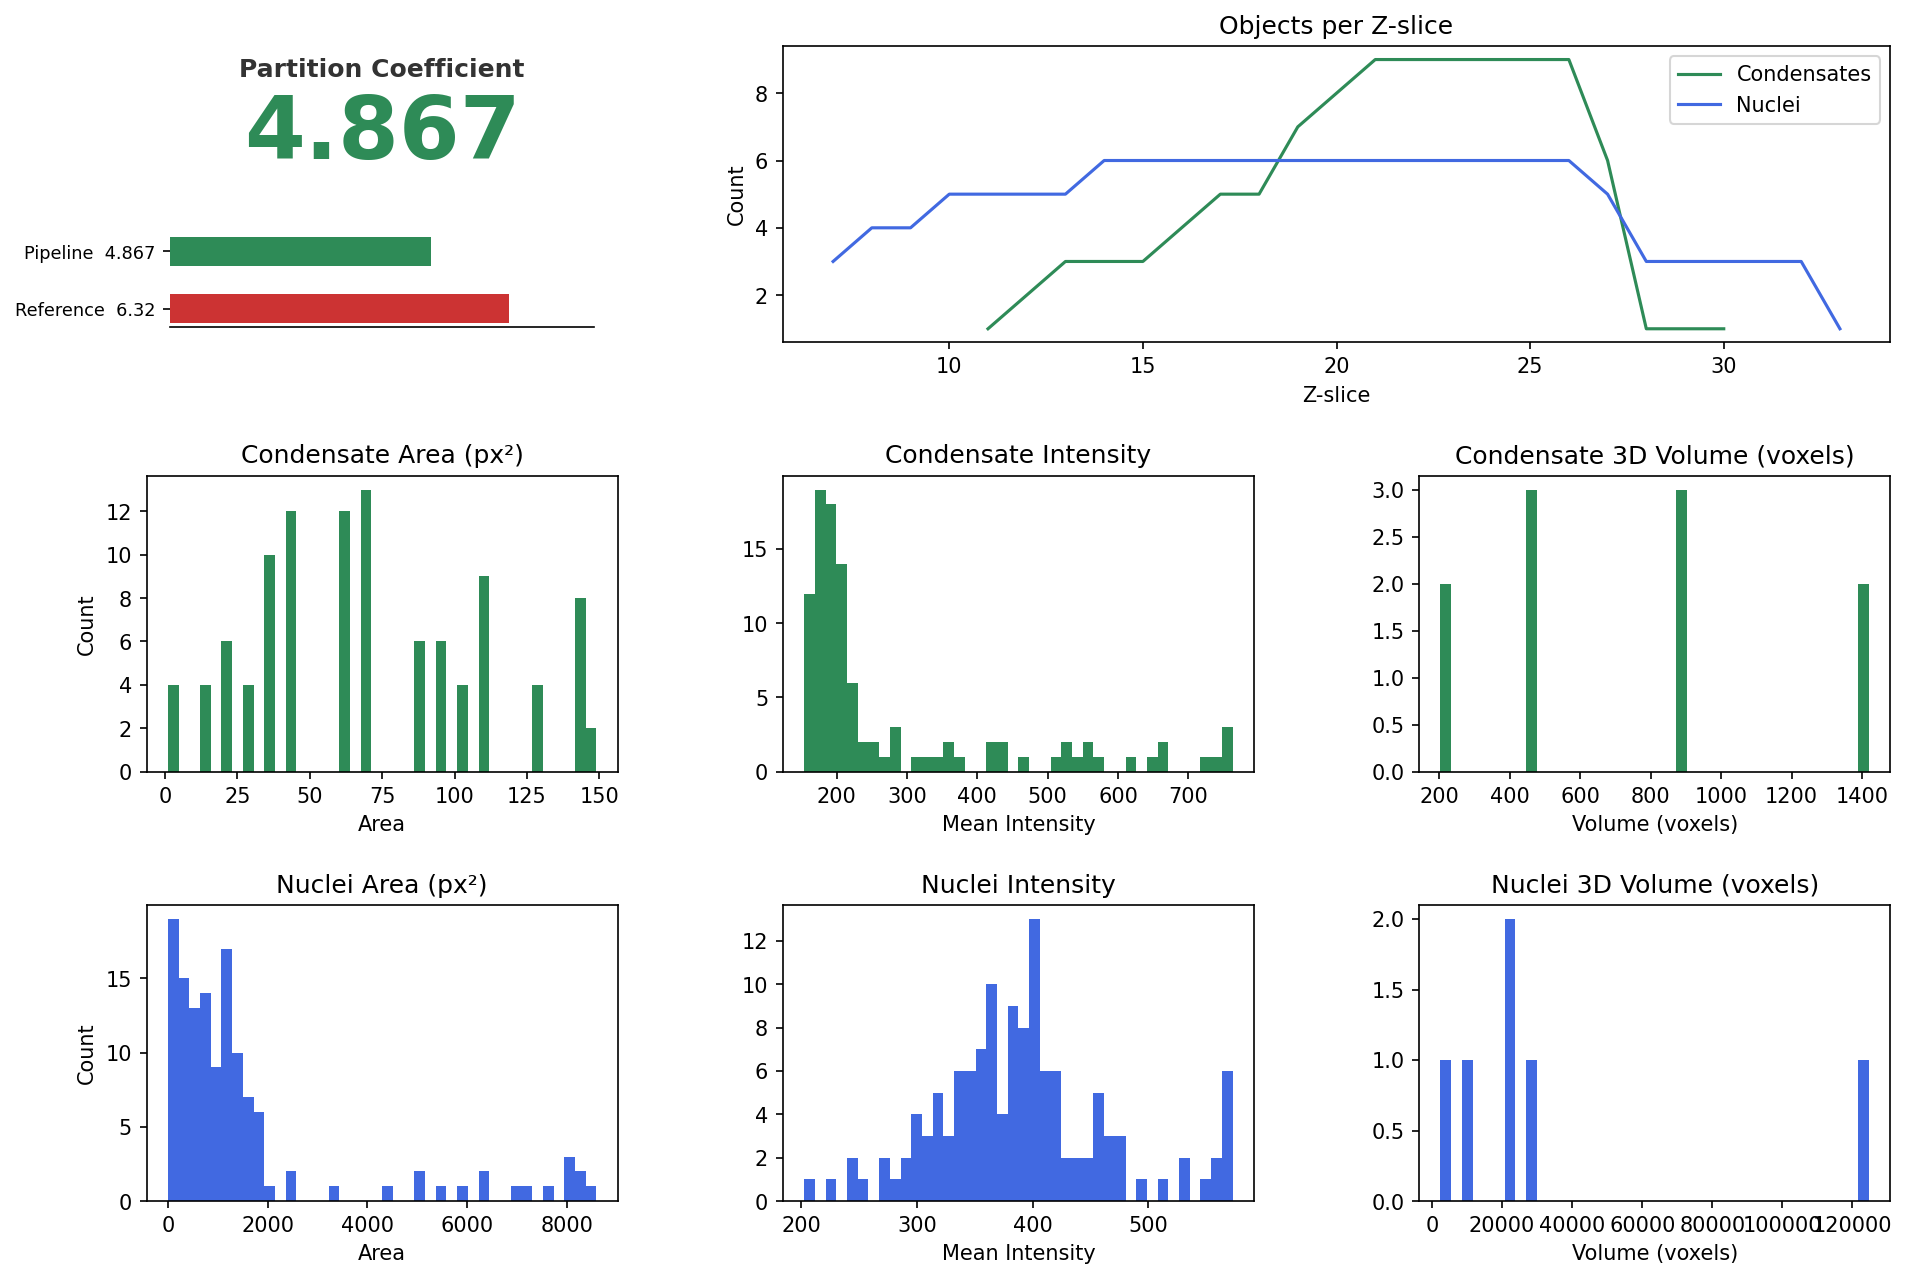
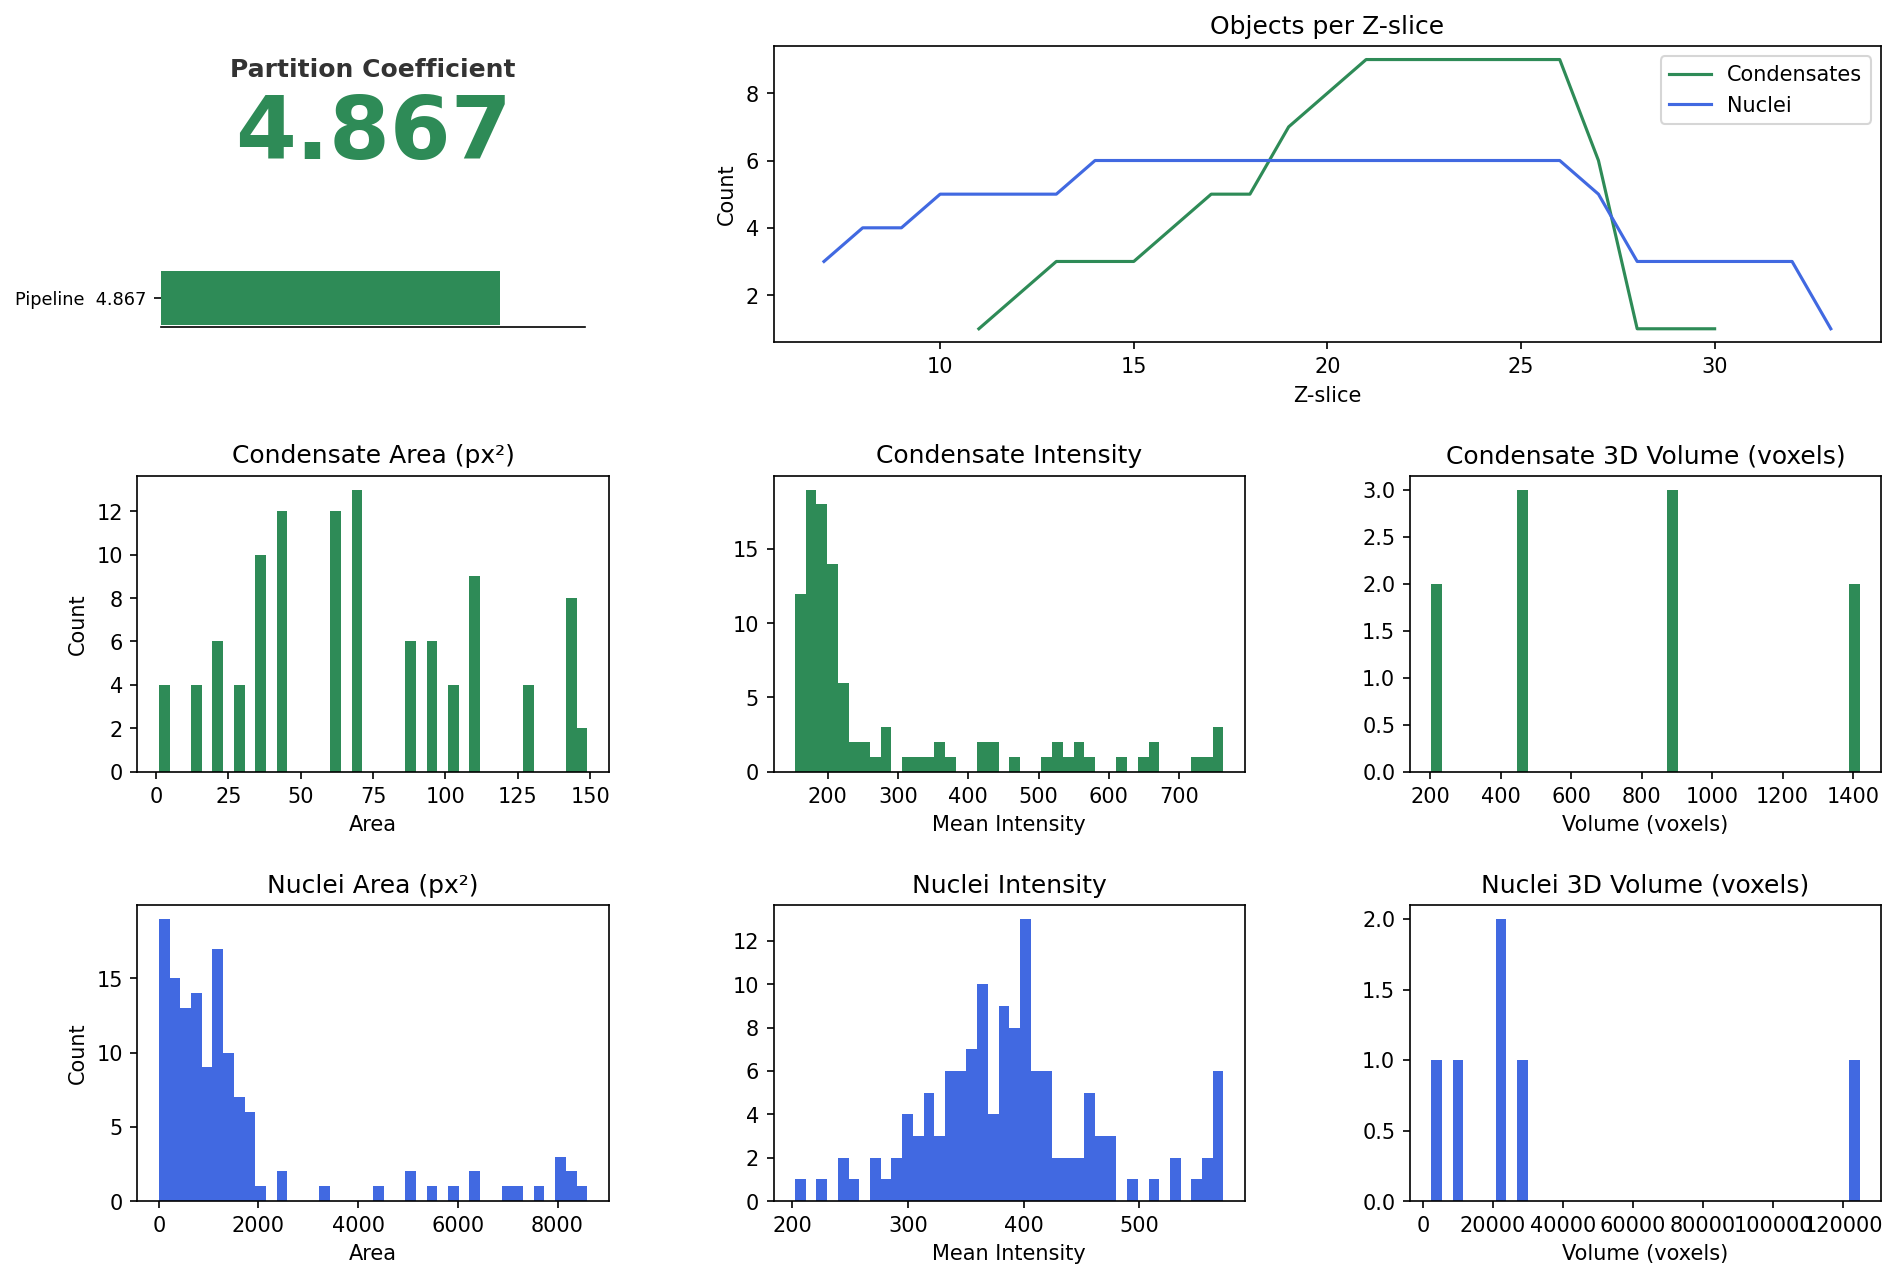
Remove hard-coded reference PC bar from summary figure
The PC scorecard drew a fixed Reference = 6.32 bar on every results.png,
but that value is only correct for one ROI (the M187 poster cell). Drop the
reference bar (and the unused _REFERENCE constant) so the scorecard shows only
the pipeline PC. Regenerated the bundled example_output/results.png.

diff --git a/pipeline.py b/pipeline.py
@@ -593,7 +593,6 @@ def save_outputs(
 
 _COND_COLOR = "#2e8b57"   # green for condensates
 _NUC_COLOR  = "#4169e1"   # blue for nuclei
-_REFERENCE  = 6.32
 
 
 def plot_summary(
@@ -632,15 +631,11 @@ def plot_summary(
                ha="center", va="center", fontsize=42, fontweight="bold",
                color=_COND_COLOR, transform=ax_pc.transAxes)
 
-    bar = ax_pc.inset_axes([0.05, 0.05, 0.90, 0.32])
-    bar.barh(1, pc_val,     color=_COND_COLOR, height=0.5)
-    bar.barh(0, _REFERENCE, color="#cc3333",   height=0.5)
-    bar.set_yticks([0, 1])
-    bar.set_yticklabels(
-        [f"Reference  {_REFERENCE:.2f}", f"Pipeline  {pc_val:.3f}"],
-        fontsize=8.5,
-    )
-    bar.set_xlim(0, max(pc_val, _REFERENCE) * 1.25)
+    bar = ax_pc.inset_axes([0.05, 0.05, 0.90, 0.20])
+    bar.barh(0, pc_val, color=_COND_COLOR, height=0.5)
+    bar.set_yticks([0])
+    bar.set_yticklabels([f"Pipeline  {pc_val:.3f}"], fontsize=8.5)
+    bar.set_xlim(0, pc_val * 1.25)
     bar.xaxis.set_visible(False)
     bar.spines[["top", "right", "left"]].set_visible(False)
 